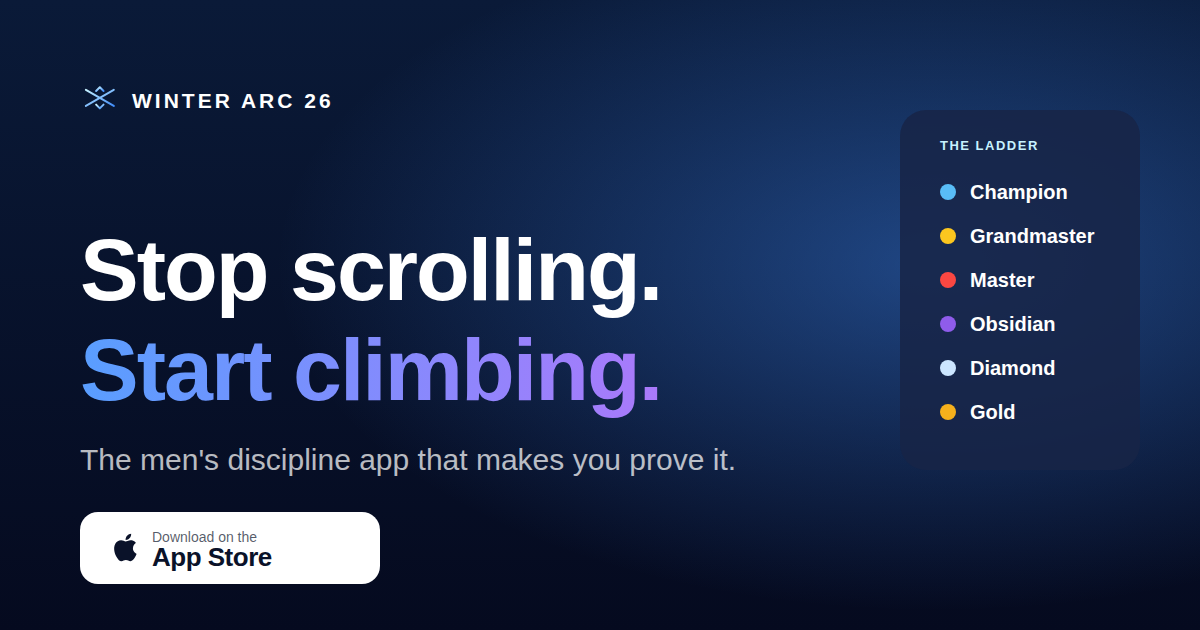
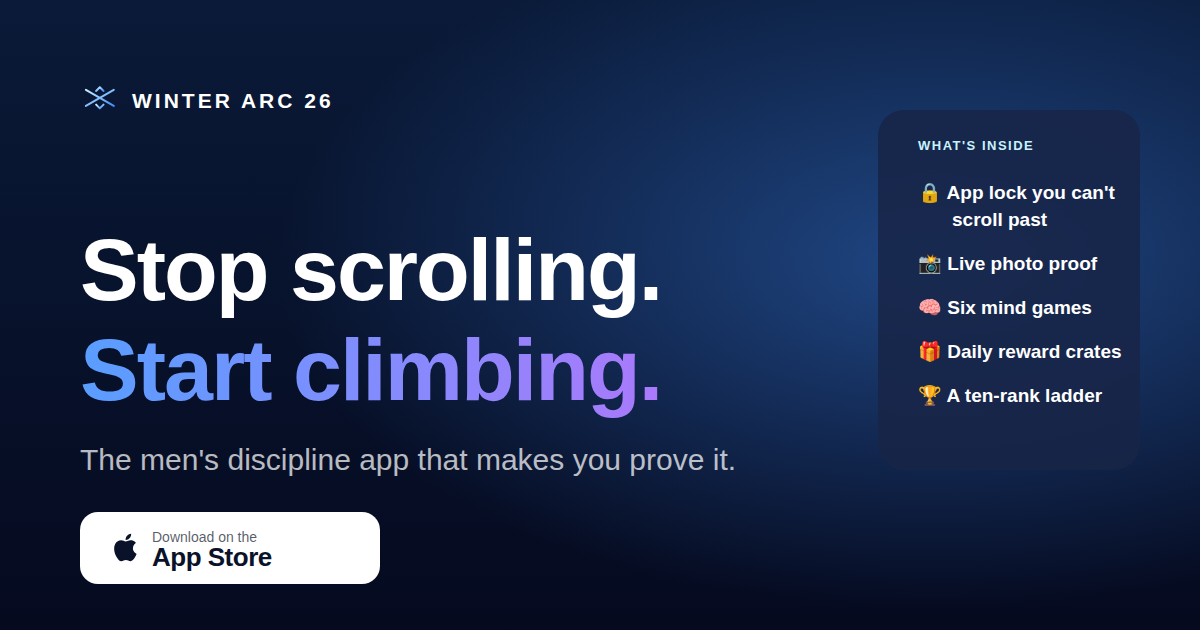
Rebalance funnel content to showcase the full feature set
Ranks were over-weighted (a huge dedicated ladder section plus the hero,
OG image and stat band). Repurpose the middle of the site so the app's
breadth leads and ranks becomes one feature among many.

- Add three marquee showcase rows, each with its own on-brand app-screen
  mockup: Lock Mode (the block screen), the Emergency Coach (the argue-back
  chat), and Mind games (the six-game grid).
- Rebuild the feature grid around breadth: photo proof, the ranked ladder,
  daily crates, streak shields, the morning briefing, and the community.
- Demote the 10-row ladder to a compact rank strip with a gradient track.
- Rebalance the stat band away from ranks (mind games, crates, 5am, no fakes).
- Swap the OG image side panel from the rank list to a "what's inside"
  feature list so shared links lead with breadth too.
- Add CSS for showcases, the three mockups, and the compact ladder strip.

Claude-Session: https://claude.ai/code/session_016hKtC9sQghrwDJrr4A8EY6

Changed region(s): [[0.7092, 0.181, 0.9558, 0.6635]]

diff --git a/index.html b/index.html
@@ -177,51 +177,147 @@
     </section>
 
     <!-- =================================================================== -->
-    <!-- FEATURES                                                             -->
+    <!-- MARQUEE FEATURE SHOWCASES                                            -->
     <!-- =================================================================== -->
     <section class="section" id="features">
       <div class="wrap">
         <div class="copy-block center reveal">
           <span class="eyebrow">What's inside</span>
-          <h2 class="h-page">Built to be hard to fool.</h2>
+          <h2 class="h-page">A whole system, not a to-do list.</h2>
           <p class="lede">Every feature exists to close a loophole you'd otherwise use on yourself.</p>
+        </div>
+
+        <!-- Showcase 1: Lock Mode -->
+        <div class="showcase__row">
+          <div class="showcase__media">
+            <div class="device reveal" aria-hidden="true">
+              <div class="device__notch"></div>
+              <div class="device__screen bs">
+                <div class="bs__emoji">❄</div>
+                <div class="bs__title">Lock in.</div>
+                <div class="bs__body">The apps eating your day can wait. The work can't.</div>
+                <div class="bs__btn">Lock In</div>
+              </div>
+            </div>
+          </div>
+          <div class="showcase__copy reveal">
+            <span class="eyebrow">Lock Mode</span>
+            <h3>A lock you can't scroll past.</h3>
+            <p>Locking in shields the apps you choose behind a full-screen block. It isn't a timer you wait out — it's task-bound. The wall only lifts when today's list is done.</p>
+            <ul class="showcase__list">
+              <li><span class="chk"><svg viewBox="0 0 24 24"><path d="M9 16.2L4.8 12l-1.4 1.4L9 19 21 7l-1.4-1.4z"/></svg></span>Task-bound, not timed — finish the work, not a countdown.</li>
+              <li><span class="chk"><svg viewBox="0 0 24 24"><path d="M9 16.2L4.8 12l-1.4 1.4L9 19 21 7l-1.4-1.4z"/></svg></span>Open a blocked app and a motivational wall meets you instead.</li>
+              <li><span class="chk"><svg viewBox="0 0 24 24"><path d="M9 16.2L4.8 12l-1.4 1.4L9 19 21 7l-1.4-1.4z"/></svg></span>Earned reward windows let you dip out, then the shield re-arms.</li>
+            </ul>
+          </div>
+        </div>
+
+        <!-- Showcase 2: The Emergency Coach -->
+        <div class="showcase__row showcase__row--rev">
+          <div class="showcase__media">
+            <div class="device reveal" aria-hidden="true">
+              <div class="device__notch"></div>
+              <div class="device__screen chat">
+                <div class="chat__hd">The Coach · 1 turn left</div>
+                <div class="chat__bubble chat__bubble--coach">You locked in for a reason. What changed in the last ten minutes?</div>
+                <div class="chat__bubble chat__bubble--me">I just need to check one thing.</div>
+                <div class="chat__bubble chat__bubble--coach">One thing becomes an hour. You know it. Sit back down.</div>
+                <div class="chat__bubble chat__bubble--me">…fine.</div>
+                <div class="chat__verdict">Verdict delivered — exits unlocked</div>
+              </div>
+            </div>
+          </div>
+          <div class="showcase__copy reveal">
+            <span class="eyebrow">The Emergency Coach</span>
+            <h3>Try to quit. It argues back.</h3>
+            <p>Tapping out mid-session doesn't just let you go. A drill-sergeant coach makes you defend the decision, turn by turn — and only hands over the exit once you've heard yourself say it out loud.</p>
+            <ul class="showcase__list">
+              <li><span class="chk"><svg viewBox="0 0 24 24"><path d="M9 16.2L4.8 12l-1.4 1.4L9 19 21 7l-1.4-1.4z"/></svg></span>Five turns before the exit even appears.</li>
+              <li><span class="chk"><svg viewBox="0 0 24 24"><path d="M9 16.2L4.8 12l-1.4 1.4L9 19 21 7l-1.4-1.4z"/></svg></span>Every excuse gets met with the reason you started.</li>
+              <li><span class="chk"><svg viewBox="0 0 24 24"><path d="M9 16.2L4.8 12l-1.4 1.4L9 19 21 7l-1.4-1.4z"/></svg></span>No error walls — a genuine emergency always gets through.</li>
+            </ul>
+          </div>
+        </div>
+
+        <!-- Showcase 3: Mind games -->
+        <div class="showcase__row">
+          <div class="showcase__media">
+            <div class="device reveal" aria-hidden="true">
+              <div class="device__notch"></div>
+              <div class="device__screen games">
+                <div class="games__hd">Mind</div>
+                <div class="games__sub">Win one to bank your minutes</div>
+                <div class="gamegrid">
+                  <div class="gametile"><span class="gt-ico">🧮</span><span class="gt-name">Mental Math</span><span class="gt-mark">9 / 10</span></div>
+                  <div class="gametile"><span class="gt-ico">🎯</span><span class="gt-name">Focus</span><span class="gt-mark">14 / 16</span></div>
+                  <div class="gametile"><span class="gt-ico">🧠</span><span class="gt-name">Memory</span><span class="gt-mark">3 rounds</span></div>
+                  <div class="gametile"><span class="gt-ico">⚡</span><span class="gt-name">Attention</span><span class="gt-mark">41 / 45</span></div>
+                  <div class="gametile"><span class="gt-ico">🔁</span><span class="gt-name">N-Back</span><span class="gt-mark">Work. memory</span></div>
+                  <div class="gametile"><span class="gt-ico">🔷</span><span class="gt-name">Spatial</span><span class="gt-mark">10 / 12</span></div>
+                </div>
+                <div class="games__note">Bank 15 minutes · once a day</div>
+              </div>
+            </div>
+          </div>
+          <div class="showcase__copy reveal">
+            <span class="eyebrow">Mind games</span>
+            <h3>Earn your minutes back.</h3>
+            <p>Six procedurally generated brain games — math, focus, memory, attention, working memory and spatial. Win one and you bank reward time to spend later. No question bank, no repeats, nothing to game.</p>
+            <ul class="showcase__list">
+              <li><span class="chk"><svg viewBox="0 0 24 24"><path d="M9 16.2L4.8 12l-1.4 1.4L9 19 21 7l-1.4-1.4z"/></svg></span>Six distinct games, endlessly generated.</li>
+              <li><span class="chk"><svg viewBox="0 0 24 24"><path d="M9 16.2L4.8 12l-1.4 1.4L9 19 21 7l-1.4-1.4z"/></svg></span>Win once a day to bank fifteen minutes.</li>
+              <li><span class="chk"><svg viewBox="0 0 24 24"><path d="M9 16.2L4.8 12l-1.4 1.4L9 19 21 7l-1.4-1.4z"/></svg></span>Sharpen the focus the feed spent years dulling.</li>
+            </ul>
+          </div>
+        </div>
+      </div>
+    </section>
+
+    <!-- =================================================================== -->
+    <!-- FEATURE GRID — the breadth                                           -->
+    <!-- =================================================================== -->
+    <section class="section section--tight">
+      <div class="wrap">
+        <div class="copy-block center reveal">
+          <span class="eyebrow">Everything in the arc</span>
+          <h2 class="h-page">And it keeps score of all of it.</h2>
         </div>
 
         <div class="feature-grid">
           <article class="feature reveal">
-            <div class="feature__icon"><svg viewBox="0 0 24 24"><path d="M12 15.2a3.2 3.2 0 100-6.4 3.2 3.2 0 000 6.4z"/><path d="M9 3L7.2 5H4a2 2 0 00-2 2v11a2 2 0 002 2h16a2 2 0 002-2V7a2 2 0 00-2-2h-3.2L15 3H9z"/></svg></div>
+            <div class="feature__icon"><svg viewBox="0 0 24 24"><rect x="3" y="6" width="18" height="14" rx="3"/><circle cx="12" cy="13" r="3.4"/><path d="M8.5 6l1.2-2h4.6l1.2 2"/></svg></div>
             <h3>Photo proof</h3>
-            <p>The camera opens live and judges the shot against your task. No camera roll, no old photos, no shortcuts. You prove it or it doesn't count.</p>
-          </article>
-
-          <article class="feature reveal">
-            <div class="feature__icon"><svg viewBox="0 0 24 24"><path d="M6 10V7a6 6 0 0112 0v3"/><rect x="4" y="10" width="16" height="11" rx="2.5"/></svg></div>
-            <h3>A lock you can't scroll past</h3>
-            <p>Lock Mode is task-bound, not timed. Open a shielded app and a block screen stands in the way instead. It lifts when the work is done — not a minute before.</p>
-          </article>
-
-          <article class="feature reveal">
-            <div class="feature__icon"><svg viewBox="0 0 24 24"><path d="M4 4v16"/><path d="M4 5c4-2 8 2 12 0v8c-4 2-8-2-12 0"/></svg></div>
-            <h3>The Emergency Coach</h3>
-            <p>Try to quit early and it argues back. Out-argue a drill-sergeant coach across five rounds before the exit even appears. Most people put the phone down instead.</p>
+            <p>The camera opens live and checks the shot against your task. No camera roll, no old photos, no shortcuts. You prove it or it doesn't count.</p>
           </article>
 
           <article class="feature reveal">
             <div class="feature__icon"><svg viewBox="0 0 24 24"><path d="M12 3l2.5 5.1 5.6.8-4 4 1 5.6L12 16l-5.1 2.5 1-5.6-4-4 5.6-.8z"/></svg></div>
             <h3>A ranked ELO ladder</h3>
-            <p>Every action moves a real number. Full days climb, missed days fall, and ten ranks — Bronze to Champion — turn discipline into something you can watch rise.</p>
+            <p>Every day moves a real number across ten ranks, Bronze to Champion. Clear the day and climb; miss it and feel it. Nobody buys their way up.</p>
           </article>
 
           <article class="feature reveal">
-            <div class="feature__icon"><svg viewBox="0 0 24 24"><circle cx="12" cy="12" r="9"/><path d="M12 7v5l3 2"/></svg></div>
-            <h3>Earn your minutes back</h3>
-            <p>Win the daily brain game and bank reward time. Spend it in short, capped windows — the shield drops, then comes straight back. Downtime you earned, not stole.</p>
+            <div class="feature__icon"><svg viewBox="0 0 24 24"><path d="M3 8l9-4 9 4-9 4z"/><path d="M3 8v8l9 4 9-4V8"/><path d="M12 12v8"/></svg></div>
+            <h3>Daily crates</h3>
+            <p>Clear three tasks and the day mints a crate. Open it for rewards that bank real minutes back into your day — a small hit of luck for showing up.</p>
+          </article>
+
+          <article class="feature reveal">
+            <div class="feature__icon"><svg viewBox="0 0 24 24"><path d="M12 3l7 3v5c0 4.5-3 7.6-7 9-4-1.4-7-4.5-7-9V6z"/><path d="M9 12l2 2 4-4"/></svg></div>
+            <h3>Streak shields</h3>
+            <p>Grind a 30-day streak and earn a shield. Slip once and it's forgiven; the shield covers the day you'd otherwise have lost. Discipline, with a safety net.</p>
+          </article>
+
+          <article class="feature reveal">
+            <div class="feature__icon"><svg viewBox="0 0 24 24"><path d="M3 18h18"/><path d="M7 18a5 5 0 0110 0"/><path d="M12 6V3M5 10L3.5 8.5M19 10l1.5-1.5"/></svg></div>
+            <h3>A morning briefing</h3>
+            <p>On the first open of each day, a swipeable briefing is waiting. It grades yesterday honestly — no spin — and sets the tone for the day ahead.</p>
           </article>
 
           <article class="feature reveal">
             <div class="feature__icon"><svg viewBox="0 0 24 24"><path d="M17 20v-2a4 4 0 00-4-4H7a4 4 0 00-4 4v2"/><circle cx="10" cy="8" r="3.2"/><path d="M21 20v-2a4 4 0 00-3-3.85"/></svg></div>
-            <h3>You're not doing this alone</h3>
-            <p>Post wins, struggles and questions to a community grinding the same arc. Pick a handle, drop the highlight reel, and show up honestly.</p>
+            <h3>The community</h3>
+            <p>Post wins, struggles and questions under a handle you choose. Everyone's running the same arc — drop the highlight reel and show up honestly.</p>
           </article>
         </div>
       </div>
@@ -233,10 +329,10 @@
     <section class="section section--tight">
       <div class="wrap">
         <div class="stats">
-          <div class="stat reveal"><div class="stat__num">10</div><div class="stat__label">ranks to climb</div></div>
+          <div class="stat reveal"><div class="stat__num">6</div><div class="stat__label">mind games to win</div></div>
+          <div class="stat reveal"><div class="stat__num">3</div><div class="stat__label">tasks mint a crate</div></div>
           <div class="stat reveal"><div class="stat__num">5<span class="frost-word">am</span></div><div class="stat__label">the day resets</div></div>
           <div class="stat reveal"><div class="stat__num">0</div><div class="stat__label">ways to fake it</div></div>
-          <div class="stat reveal"><div class="stat__num">6</div><div class="stat__label">brain games to win</div></div>
         </div>
       </div>
     </section>
@@ -244,29 +340,29 @@
     <!-- =================================================================== -->
     <!-- THE LADDER                                                           -->
     <!-- =================================================================== -->
-    <section class="section" id="ladder">
+    <section class="section section--tight" id="ladder">
       <div class="wrap">
         <div class="copy-block center reveal">
           <span class="eyebrow">The climb</span>
-          <h2 class="h-page">
-            Every day moves<br />
-            <span class="grad">your number.</span>
-          </h2>
-          <p class="lede">Ten tiers. You don't buy your way up — you earn it, one cleared day at a time.</p>
+          <h2 class="h-page">Ten ranks. <span class="grad">Earned, not bought.</span></h2>
+          <p class="lede">All that scorekeeping rolls into one number that moves you up a ladder — or back down it.</p>
         </div>
 
-        <div class="ladder reveal">
-          <div class="rung" style="color:#F2AD7D"><span class="rung__swatch"></span><span class="rung__name">Bronze</span><span class="rung__bar"><span class="rung__fill" style="width:6%"></span></span><span class="rung__elo">0</span></div>
-          <div class="rung" style="color:#BAC2C9"><span class="rung__swatch"></span><span class="rung__name">Silver</span><span class="rung__bar"><span class="rung__fill" style="width:10%"></span></span><span class="rung__elo">80</span></div>
-          <div class="rung" style="color:#F5B01C"><span class="rung__swatch"></span><span class="rung__name">Gold</span><span class="rung__bar"><span class="rung__fill" style="width:18%"></span></span><span class="rung__elo">240</span></div>
-          <div class="rung" style="color:#29E3E8"><span class="rung__swatch"></span><span class="rung__name">Platinum</span><span class="rung__bar"><span class="rung__fill" style="width:26%"></span></span><span class="rung__elo">560</span></div>
-          <div class="rung" style="color:#36ED7D"><span class="rung__swatch"></span><span class="rung__name">Emerald</span><span class="rung__bar"><span class="rung__fill" style="width:36%"></span></span><span class="rung__elo">1,100</span></div>
-          <div class="rung" style="color:#CCE6FF"><span class="rung__swatch"></span><span class="rung__name">Diamond</span><span class="rung__bar"><span class="rung__fill" style="width:46%"></span></span><span class="rung__elo">1,700</span></div>
-          <div class="rung" style="color:#8F5CEB"><span class="rung__swatch"></span><span class="rung__name">Obsidian</span><span class="rung__bar"><span class="rung__fill" style="width:60%"></span></span><span class="rung__elo">3,600</span></div>
-          <div class="rung" style="color:#FA4742"><span class="rung__swatch"></span><span class="rung__name">Master</span><span class="rung__bar"><span class="rung__fill" style="width:74%"></span></span><span class="rung__elo">7,200</span></div>
-          <div class="rung" style="color:#FCC71F"><span class="rung__swatch"></span><span class="rung__name">Grandmaster</span><span class="rung__bar"><span class="rung__fill" style="width:88%"></span></span><span class="rung__elo">12,000</span></div>
-          <div class="rung" style="color:#59BDF7"><span class="rung__swatch"></span><span class="rung__name">Champion</span><span class="rung__bar"><span class="rung__fill" style="width:100%"></span></span><span class="rung__elo">29,000</span></div>
+        <div class="ladder-strip reveal">
+          <span class="rank-chip" style="color:#F2AD7D"><span class="swatch"></span><span class="rk">Bronze</span><span class="el">0</span></span>
+          <span class="rank-chip" style="color:#BAC2C9"><span class="swatch"></span><span class="rk">Silver</span><span class="el">80</span></span>
+          <span class="rank-chip" style="color:#F5B01C"><span class="swatch"></span><span class="rk">Gold</span><span class="el">240</span></span>
+          <span class="rank-chip" style="color:#29E3E8"><span class="swatch"></span><span class="rk">Platinum</span><span class="el">560</span></span>
+          <span class="rank-chip" style="color:#36ED7D"><span class="swatch"></span><span class="rk">Emerald</span><span class="el">1,100</span></span>
+          <span class="rank-chip" style="color:#CCE6FF"><span class="swatch"></span><span class="rk">Diamond</span><span class="el">1,700</span></span>
+          <span class="rank-chip" style="color:#8F5CEB"><span class="swatch"></span><span class="rk">Obsidian</span><span class="el">3,600</span></span>
+          <span class="rank-chip" style="color:#FA4742"><span class="swatch"></span><span class="rk">Master</span><span class="el">7,200</span></span>
+          <span class="rank-chip" style="color:#FCC71F"><span class="swatch"></span><span class="rk">Grandmaster</span><span class="el">12,000</span></span>
+          <span class="rank-chip" style="color:#59BDF7"><span class="swatch"></span><span class="rk">Champion</span><span class="el">29,000</span></span>
         </div>
+
+        <div class="ladder-track reveal" aria-hidden="true"></div>
+        <div class="ladder-ends reveal"><span>Bronze · day one</span><span>Champion · about a year in</span></div>
       </div>
     </section>
 

diff --git a/assets/css/styles.css b/assets/css/styles.css
@@ -476,22 +476,108 @@ p { margin: 0; }
 .step p { color: var(--text-2); font-size: 15px; }
 
 /* ---------------------------------------------------------------------------
-   10. The ladder
+   9b. Marquee feature showcases (big alternating rows with a phone mockup)
    ------------------------------------------------------------------------- */
-.ladder { margin-top: 52px; display: flex; flex-direction: column; gap: 10px; }
-.rung {
-  display: flex; align-items: center; gap: 16px;
-  background: var(--card); border-radius: 16px;
-  padding: 14px 18px; border: 1px solid var(--hairline-soft);
+.showcase__row {
+  display: grid;
+  grid-template-columns: 1fr 1fr;
+  align-items: center;
+  gap: 56px;
+  margin-top: 84px;
 }
-.rung__swatch { width: 14px; height: 14px; border-radius: 5px; flex: none; box-shadow: 0 0 14px currentColor; }
-.rung__name { color: #fff; font-weight: 600; font-size: 16px; min-width: 120px; }
-.rung__bar { flex: 1; height: 6px; border-radius: 999px; background: rgba(255,255,255,0.06); overflow: hidden; }
-.rung__fill { height: 100%; border-radius: 999px; background: currentColor; }
-.rung__elo { color: var(--text-3); font-size: 13px; font-variant-numeric: tabular-nums; min-width: 78px; text-align: right; }
-@media (max-width: 560px) {
-  .rung__name { min-width: 92px; font-size: 14px; }
-  .rung__bar { display: none; }
+.showcase__row:first-child { margin-top: 56px; }
+.showcase__row--rev .showcase__media { order: 2; }
+.showcase__copy .eyebrow { margin-bottom: 10px; }
+.showcase__copy h3 { font-size: clamp(24px, 3vw, 32px); letter-spacing: -0.02em; }
+.showcase__copy p { color: var(--text-2); font-size: 17px; margin-top: 14px; max-width: 460px; }
+.showcase__list { list-style: none; padding: 0; margin: 22px 0 0; display: flex; flex-direction: column; gap: 12px; }
+.showcase__list li { display: flex; align-items: flex-start; gap: 12px; color: var(--text-body); font-size: 15px; }
+.showcase__list .chk {
+  width: 22px; height: 22px; border-radius: 50%; flex: none; margin-top: 1px;
+  background: rgba(89,224,140,0.15); display: grid; place-items: center;
+}
+.showcase__list .chk svg { width: 12px; height: 12px; fill: var(--success); }
+.showcase__media { display: flex; justify-content: center; }
+.showcase .device { width: 268px; }
+
+@media (max-width: 860px) {
+  .showcase__row, .showcase__row--rev { grid-template-columns: 1fr; gap: 34px; text-align: center; }
+  .showcase__row--rev .showcase__media { order: 0; }
+  .showcase__copy p, .showcase__list { margin-left: auto; margin-right: auto; }
+  .showcase__list li { text-align: left; }
+}
+
+/* --- Mockup: block screen --- */
+.device__screen.bs {
+  display: flex; flex-direction: column; align-items: center; justify-content: center;
+  text-align: center; padding: 30px 22px; gap: 4px;
+  background: linear-gradient(180deg, #0A1229 0%, #05070f 100%);
+}
+.bs__emoji { font-size: 46px; line-height: 1; margin-bottom: 12px; }
+.bs__title { font-size: 26px; font-weight: 800; color: #fff; letter-spacing: -0.02em; }
+.bs__body { font-size: 14px; color: var(--text-3); margin-top: 8px; max-width: 200px; }
+.bs__btn {
+  margin-top: 26px; background: #fff; color: #0A1229; font-weight: 700; font-size: 15px;
+  padding: 13px 30px; border-radius: 14px;
+}
+
+/* --- Mockup: coach chat --- */
+.device__screen.chat { padding: 40px 14px 16px; display: flex; flex-direction: column; }
+.chat__hd {
+  text-align: center; font-size: 11px; font-weight: 700; letter-spacing: 1.2px;
+  text-transform: uppercase; color: var(--frost); padding-bottom: 14px;
+}
+.chat__bubble {
+  max-width: 84%; padding: 11px 14px; border-radius: 16px; font-size: 13px; line-height: 1.4;
+  margin-bottom: 9px;
+}
+.chat__bubble--coach { background: var(--card); color: #fff; border-bottom-left-radius: 5px; align-self: flex-start; }
+.chat__bubble--me { background: var(--glow); color: #fff; border-bottom-right-radius: 5px; align-self: flex-end; }
+.chat__verdict {
+  margin-top: auto; background: rgba(89,224,140,0.12); border: 1px solid rgba(89,224,140,0.35);
+  border-radius: 14px; padding: 12px; font-size: 12px; color: var(--success); text-align: center; font-weight: 600;
+}
+
+/* --- Mockup: mind games grid --- */
+.device__screen.games { padding: 44px 16px 18px; }
+.games__hd { font-size: 22px; font-weight: 800; color: #fff; letter-spacing: -0.02em; padding: 0 4px 4px; }
+.games__sub { font-size: 12px; color: var(--text-3); padding: 0 4px 16px; }
+.gamegrid { display: grid; grid-template-columns: 1fr 1fr; gap: 10px; }
+.gametile {
+  background: var(--card); border-radius: 16px; padding: 14px 12px;
+  display: flex; flex-direction: column; gap: 8px; min-height: 76px;
+}
+.gametile .gt-ico { font-size: 20px; }
+.gametile .gt-name { font-size: 12px; font-weight: 700; color: #fff; }
+.gametile .gt-mark { font-size: 10px; color: var(--frost); font-weight: 600; }
+.games__note {
+  margin-top: 12px; text-align: center; font-size: 11px; color: var(--success);
+  background: rgba(89,224,140,0.1); border-radius: 12px; padding: 9px;
+}
+
+/* ---------------------------------------------------------------------------
+   10. The ladder — compact strip (one feature among many, not the headline)
+   ------------------------------------------------------------------------- */
+.ladder-strip {
+  margin-top: 44px;
+  display: flex; flex-wrap: wrap; justify-content: center; gap: 10px;
+}
+.rank-chip {
+  display: inline-flex; align-items: center; gap: 8px;
+  background: var(--card); border: 1px solid var(--hairline-soft);
+  border-radius: 999px; padding: 9px 16px 9px 12px;
+}
+.rank-chip .swatch { width: 11px; height: 11px; border-radius: 50%; flex: none; box-shadow: 0 0 12px currentColor; }
+.rank-chip .rk { color: #fff; font-size: 14px; font-weight: 600; }
+.rank-chip .el { color: var(--text-3); font-size: 12px; font-variant-numeric: tabular-nums; }
+.ladder-track {
+  margin: 30px auto 0; max-width: 720px; height: 8px; border-radius: 999px;
+  background: linear-gradient(90deg,#F2AD7D,#BAC2C9,#F5B01C,#29E3E8,#36ED7D,#CCE6FF,#8F5CEB,#FA4742,#FCC71F,#59BDF7);
+  opacity: 0.9;
+}
+.ladder-ends {
+  max-width: 720px; margin: 10px auto 0; display: flex; justify-content: space-between;
+  color: var(--text-3); font-size: 12px; letter-spacing: 0.5px;
 }
 
 /* ---------------------------------------------------------------------------
